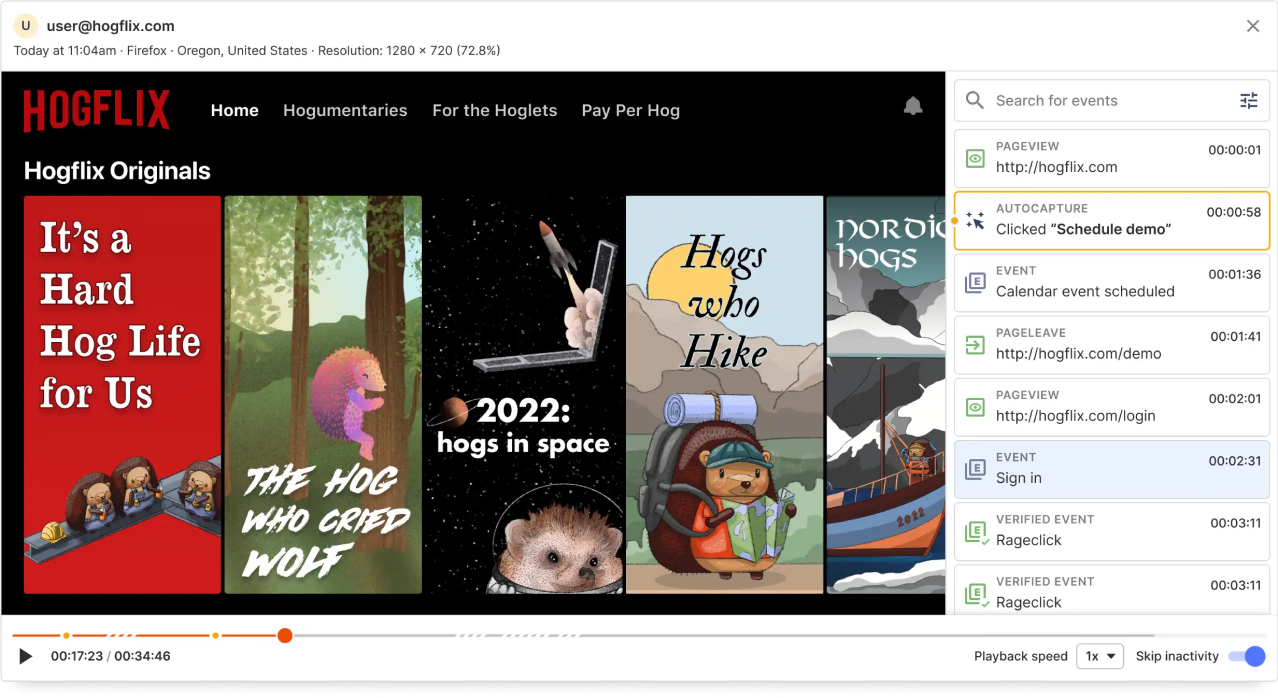
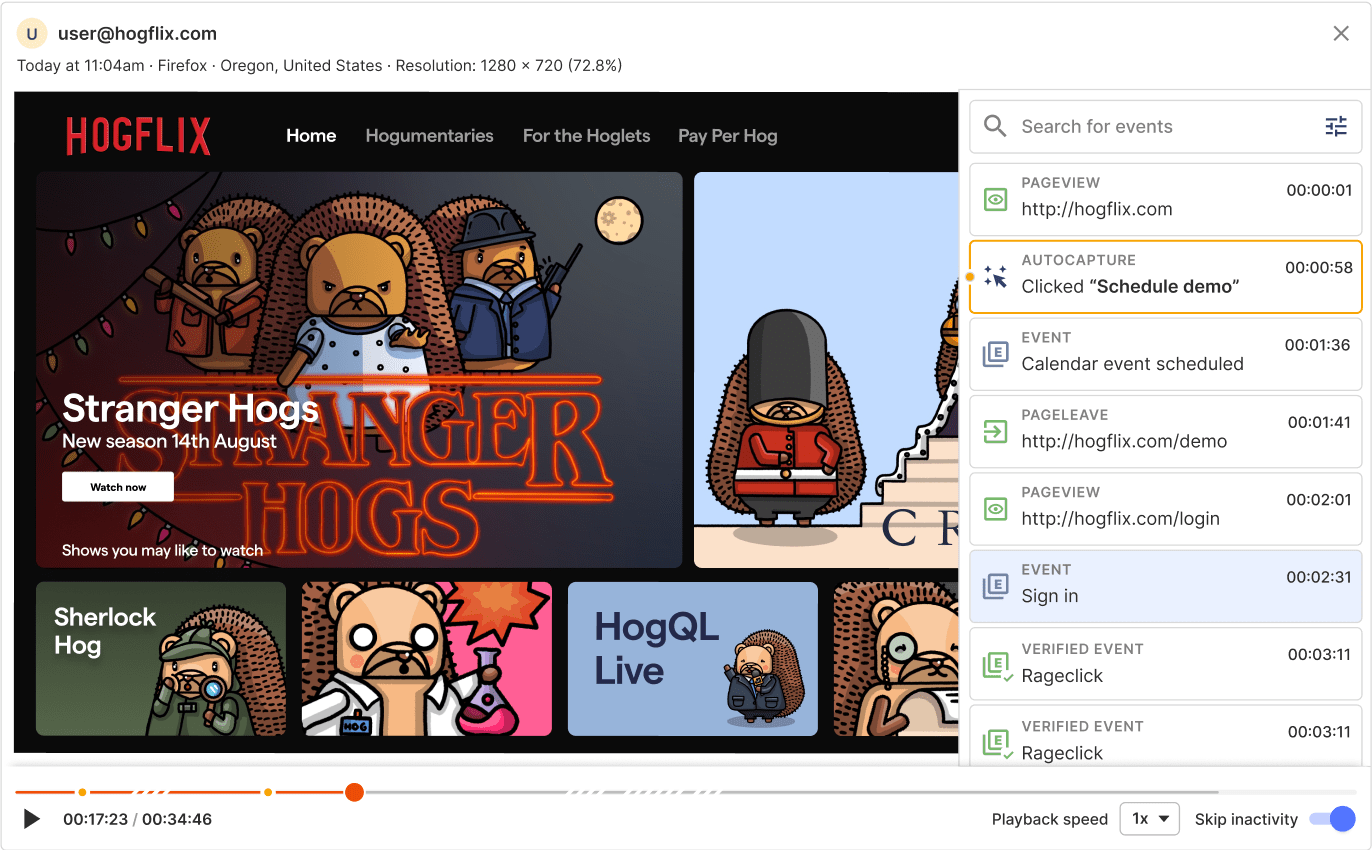
better responsiveness for hero slider

diff --git a/src/components/Home/Slider/index.js b/src/components/Home/Slider/index.js
@@ -55,7 +55,7 @@ export default function Slider() {
                         arrows={false}
                         slidesToShow={8}
                         focusOnSelect
-                        className="home-slider-buttons list-none max-w-full lg:max-w-7xl mx-auto m-0 p-0 pb-4"
+                        className="home-slider-buttons list-none max-w-full lg:max-w-7xl mx-auto m-0 p-0"
                     >
                         {slideButtons.map((slide, index) => {
                             return <SlideButton index={index} activeSlide={activeSlide} key={index} {...slide} />
@@ -93,8 +93,8 @@ export default function Slider() {
                         </svg>
                     </div>
                 </div>
-                <div className="flex items-center">
-                    <div className="flex-grow hidden md:flex justify-center items-center md:absolute md:left-2 xl:static">
+                <div className="flex items-center max-w-screen-2xl mx-auto">
+                    <div className="shrink-0 basis-[50px] hidden md:flex justify-center items-center md:absolute md:left-2 xl:static">
                         <button
                             onClick={() => slideRef.slickPrev()}
                             className="relative hover:scale-[1.01] hover:top-[-1px] active:top-[.5px] active:scale-[.99] md:z-30"
@@ -111,7 +111,7 @@ export default function Slider() {
                         arrows={false}
                         slidesToShow={1}
                         infinite
-                        className="home-slider flex-shrink-0 list-none max-w-full lg:max-w-5xl xl:max-w-6xl 2xl:max-w-7xl w-full mx-auto m-0 p-0 flex items-center justify-center overflow-auto"
+                        className="home-slider flex-1 list-none max-w-full lg:max-w-7xl xl:max-w-7xl 2xl:max-w-7xl w-full mx-auto m-0 p-0 flex items-center justify-center overflow-x-auto"
                     >
                         <ProductAnalytics />
                         <SessionReplay />
@@ -122,7 +122,7 @@ export default function Slider() {
                         <Sql />
                         <Api />
                     </SliderComponent>
-                    <div className="flex-grow hidden md:flex justify-center items-center md:absolute md:right-2 xl:static">
+                    <div className="shrink-0 basis-[50px] hidden md:flex justify-center items-center md:absolute md:right-2 xl:static">
                         <button
                             onClick={() => slideRef.slickNext()}
                             className="relative hover:scale-[1.01] hover:top-[-1px] active:top-[.5px] active:scale-[.99] md:z-30"

diff --git a/src/components/Home/Slider/Slides.js b/src/components/Home/Slider/Slides.js
@@ -60,7 +60,7 @@ const Content = ({ children }) => {
 }
 
 const ImageContainer = ({ children, className = '' }) => {
-    return <div className={`relative h-[300px] xl:h-[400px] order-2 md:order-1 ${className}`}>{children}</div>
+    return <div className={`relative h-[300px] xl:h-[390px] order-2 md:order-1 ${className}`}>{children}</div>
 }
 
 const FeatureList = ({ features }) => {
@@ -155,11 +155,11 @@ export const SessionReplay = () => {
         { title: 'Network requests', Icon: Pulse },
     ]
     return (
-        <div className="bg-[#F2AD46] rounded-md text-primary relative grid grid-cols-2 md:gap-7 pt-5">
-            <ImageContainer className="md:px-8 pt-4 pb-3">
+        <div className="bg-[#F2AD46] rounded-md text-primary relative grid grid-cols-12 md:gap-4">
+            <ImageContainer className="pl-8 col-span-8">
                 <motion.div
                     transition={{ delay: 0.4 }}
-                    className="h-full md:flex md:items-end"
+                    className="md:flex md:items-end md:-mt-10"
                     initial={{ translateY: '100%' }}
                     animate={{ translateY: 0 }}
                 >
@@ -168,13 +168,13 @@ export const SessionReplay = () => {
                         placeholder="none"
                         quality={100}
                         objectFit="contain"
-                        className="w-[170%] md:w-full rotate-2 md:max-w-[754.5px] shadow-xl"
-                        src="./images/session-recording.png"
+                        className="w-[170%] md:w-full rotate-1 md:max-w-[686px] shadow-xl relative top-4"
+                        src="../../../../contents/images/products/session-replay/session-replay.png"
                         alt="A session recording of a fake application called Hogflix"
                     />
                 </motion.div>
             </ImageContainer>
-            <ContentContainer>
+            <ContentContainer className="col-span-4">
                 <Content>
                     <Title title={'Session replay'} />
                     <Description description="Watch users interacting with your app or website. Available for web and iOS.*" />

diff --git a/src/components/Home/Hero.js b/src/components/Home/Hero.js
@@ -52,6 +52,20 @@ export default function Hero() {
                         The single platform to analyze, test, observe, and deploy new features
                     </h2>
 
+                    <div className="border border-dashed border-red rounded p-8 max-w-sm mx-auto">
+                        <strong>Debug</strong>
+                        <br />
+                        Breakpoint:
+                        <strong className="sm:hidden">xs?</strong>
+                        <strong className="hidden sm:inline md:hidden">sm</strong>
+                        <strong className="hidden md:inline lg:hidden">md</strong>
+                        <strong className="hidden lg:inline xl:hidden">lg</strong>
+                        <strong className="hidden xl:inline 2xl:hidden">xl</strong>
+                        <strong className="hidden 2xl:inline 3xl:hidden">2xl</strong>
+                        <strong className="hidden 3xl:inline 4xl:hidden">3xl</strong>
+                        <strong className="hidden 4xl:inline 5xl:hidden">3xl</strong>
+                    </div>
+
                     <div className="flex flex-col md:flex-row justify-center items-center gap-2">
                         <SignupCTA className="" />
 

diff --git a/src/styles/global.css b/src/styles/global.css
@@ -589,11 +589,7 @@ ul {
 }
 
 .slick-slide {
-    display: none;
-    float: left;
-
-    height: 100%;
-    min-height: 1px;
+    @apply pt-10 hidden float-left h-full min-h-[1px];
 }
 [dir='rtl'] .slick-slide {
     float: right;
